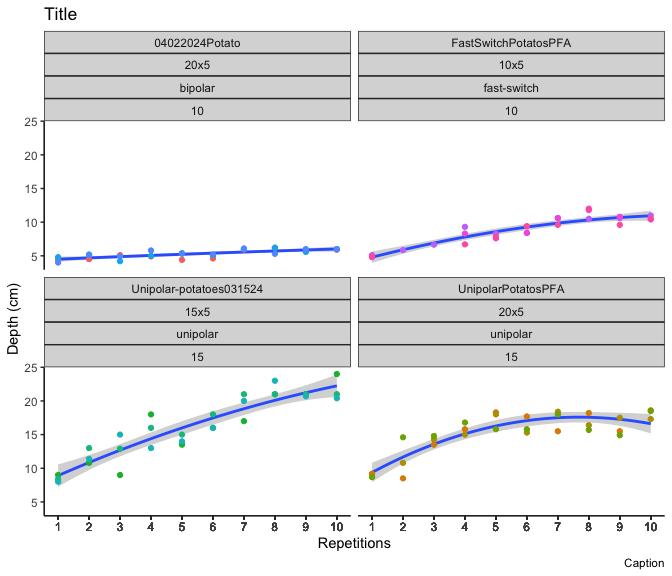
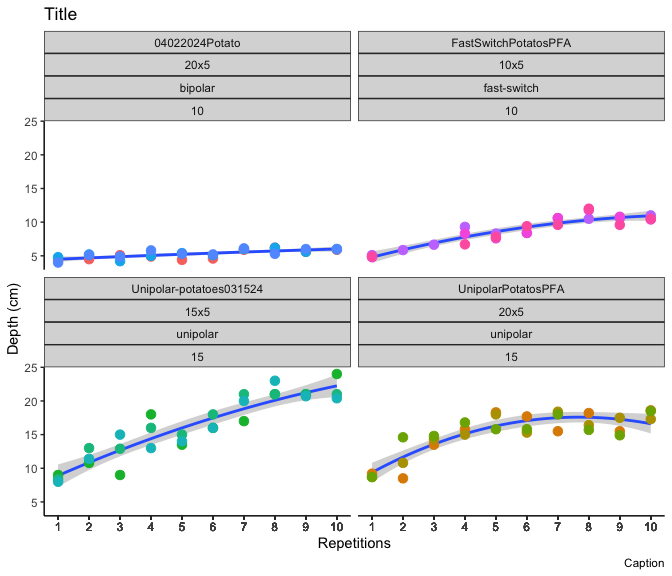
aesthetic changes to plots

diff --git a/code/step_3_descriptive_stats.md b/code/step_3_descriptive_stats.md
@@ -145,5 +145,5 @@ output:
 
 
 ```
-## [1] "Tue Jul 30 11:36:38 2024"
+## [1] "Tue Jul 30 11:47:30 2024"
 ```
